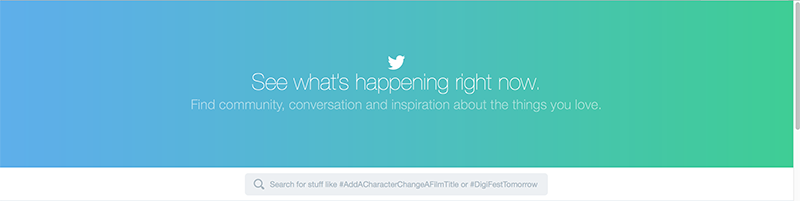
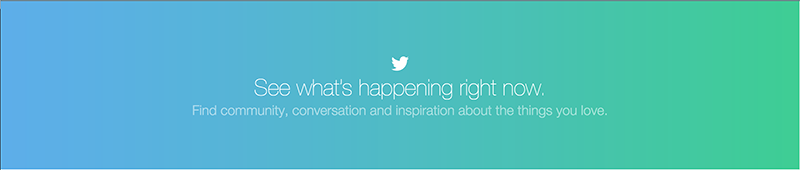
Component and Index page updates

Changed region(s): [[0.0, 0.0, 1.0, 1.0], [0.2188, 0.2647, 0.75, 0.5882], [0.2188, 0.6176, 0.7812, 0.7059]]

diff --git a/components/1/component.html b/components/1/component.html
@@ -2,13 +2,69 @@
 <html>
 <head>
 	<title>WSP Component: Firstname Lastname</title>
-	<link rel="stylesheet" type="text/css" href="../../css/reset.css" />
+	<!--<link rel="stylesheet" type="text/css" href="../../css/reset.css" />-->
 	<link rel="stylesheet" type="text/css" href="component.css" />
 </head>
 <body>
 
 	<!-- Component -->
-
+<header>
+	<!--top header div-->
+	<div class="wrapper">
+			<!--left side brand-->
+			<div>
+				<h1>
+					<span>DX</span>script
+				</h1>
+			</div>
+			<!--right side account & social media links-->
+			<div>
+					<ul>
+						<li>
+							<a href="#">Create an Account</a>
+						</li>
+						<li>
+							<a href="#">Log In</a>
+						</li>
+						<li>
+							<!--formatting for closer img icons-->
+							<ul>
+								<li>
+										<a href="#"><img src="twitter.png" alt="twitter"></a>
+								</li>
+								<li>
+										<a href="#"><img src="twitter.png" alt="twitter"></a>
+								</li>
+								<li>
+										<a href="#"><img src="google.png" alt="twitter"></a>
+								</li>
+							</ul>
+						</li>
+					</ul>
+			</div>
+	</div>
+	<!--Lower header div-->
+	<div class="wrapper bg-image">
+		<img src="triangle.png" alt="logo triangle"><!--shown as a viewable background image example-->
+		<div>
+			<!--left side postioning div-->
+			<nav>
+				<ul>
+					<li>Home</li>
+					<li>About Us</li>
+					<li>Most Popular</li>
+					<li>Faqs</li>
+					<li>Contacts</li>
+				</ul>
+			</nav>
+		</div>
+		<!--right side postioning div-->
+			<form action="">
+				<input type="text" name="searchInput" id="">
+				<input type="submit" value="Search">
+			</form>
+	</div>
+</header>
 	
 
 	<!-- End Component -->

diff --git a/index.html b/index.html
@@ -41,6 +41,7 @@
 				<p>To establish their brand via a prominent company logo that blends into the navigation as well links to their social media networks.  To establish clear options for users to navigate through the site to find the product(s) or information in making a proper decision for him or her.  </p>
 				<p class="paragraphTitle">Critique:</p>
 				<p>The layout and purpose is clear on this header. Each navigation section is clear and does not leave to question where it leads.  Spacing is utilized well so that everything isn’t muddled and illegible. I think color palate could be changed a little bit.  The heavy use of the greys gives not only the header, but also the entire site a dreary feeling. It doesn’t make me excited to be on the site or persuade me to use their services/products offered.  I think the color scheme is in line with the overall site,  I just think that maybe using them differently may give it a little more excitement.  The typeface of the navigation gives a “computer”/technological feel to it, which works but may be a little gimmicky for serious business/decisions makers. </p>
+				<a href="components/1/component.html"><button>Components</button></a>
 			</div>
 		</article>
 		<article>

diff --git a/components/2/component.html b/components/2/component.html
@@ -2,13 +2,23 @@
 <html>
 <head>
 	<title>WSP Component: Firstname Lastname</title>
-	<link rel="stylesheet" type="text/css" href="../../css/reset.css" />
+	<!--<link rel="stylesheet" type="text/css" href="../../css/reset.css" />-->
 	<link rel="stylesheet" type="text/css" href="component.css" />
 </head>
 <body>
 
 	<!-- Component -->
-
+	<Section>
+		<img src="twitter.png" alt="twitter bird icon">
+		<h1>See what's happening right now.</h1>
+<h2>Find community, conversation and inspiration about the things you love.</h2>
+		<div>
+			<form action="">
+				<input type="text" name="" id="" placeholder="Search for stuff like #HTML5 #HTMLSemantics">
+				<input type="submit" value="submit">
+			</form>
+		</div>
+	</Section>
 	
 
 	<!-- End Component -->

diff --git a/css/main.css b/css/main.css
@@ -17,7 +17,7 @@ WSP COMPONENT LIBRARY STYLESHEET
 
 body {
 	background-color: #272F32;
-	background-image: url();
+	
 }
 
 section {
@@ -111,3 +111,22 @@ article p {
 	color: #FF8C00;
 	
 }
+
+button {
+	width: 100px;
+	height: 40px;
+	margin: 10px 0;
+	color: #fff;
+	background-color: #FF8C00;
+	border: 0px;
+	border-radius: 5px;
+	
+}
+
+button:hover {
+	background-color: #272F32;
+	color: #ccc;
+	border: 0px solid;
+}
+
+button:focus {outline:0 !important;}
